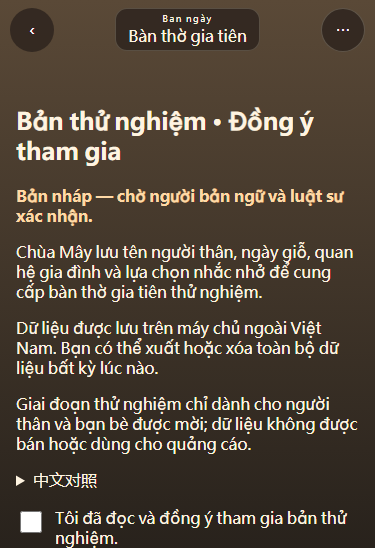
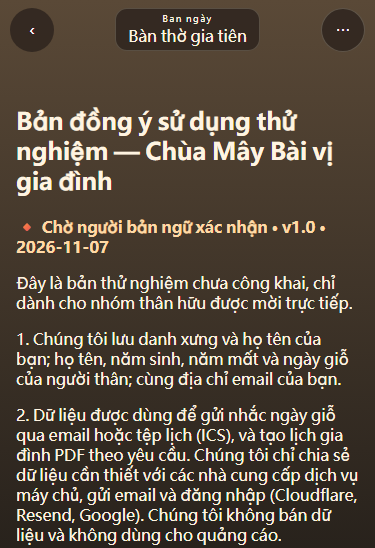
Harden staging pilot copy metrics and accessibility

Changed region(s): [[0.0293, 0.1861, 0.968, 1.0]]

diff --git a/admin-ui/admin.js b/admin-ui/admin.js
@@ -14,6 +14,7 @@ function render(data) {
   bars("#channels", referrals.channels); bars("#activities", referrals.activities);
   $("#tree").innerHTML = referrals.tree.status !== "ok" ? '<p class="insufficient">样本不足，暂不显示传播结构。</p>' : referrals.tree.edges.length ? referrals.tree.edges.map((edge) => `<span class="node">${safe(edge.from)}</span><span class="edge">→</span><span class="node">${safe(edge.to)}</span>`).join("") : '<p class="empty">暂无绑定关系</p>';
   $("#family-cards").innerHTML = card("牌位", family.tablets) + card("平均成员", family.averageMembers) + card("邀请发出", family.invites) + card("邀请接受率", family.inviteAcceptance == null ? null : `${Math.round(family.inviteAcceptance * 100)}%`) + card("提醒后 3 日回访上香", family.reminderReturn == null ? null : `${Math.round(family.reminderReturn * 100)}%`);
+  const fm=family.metrics||{};$("#family-metrics").innerHTML=card("打开牌位",fm.memorial_view||0)+card("完成供奉",fm.offering_complete||0)+card("受邀首次加入",fm.member_invite_accept||0)+card("设置提醒",fm.reminder_set||0)+card("导出 ICS",fm.ics_export||0)+card("预览台历 PDF",fm.calendar_pdf_view||0);
   bars("#deliveries", data.deliveries);
   const op = data.operations; $("#ops").innerHTML = facts({ "当前 release": op.release, "API 状态": op.api, "最近备份": op.backupAt, "restic check": op.backupCheck, "源站证书到期": op.certificateExpires, "磁盘剩余": op.diskFreeBytes == null ? "未提供" : `${(op.diskFreeBytes / 1073741824).toFixed(1)} GiB` });
   $("#errors").innerHTML = op.errors.length ? `<div class="bars">${op.errors.map((error) => `<div class="bar"><b>${safe(error.category)}</b><span></span><small>${error.count} · ${safe(error.at)}</small></div>`).join("")}</div>` : '<p class="empty">没有可显示的错误类别。</p>';
@@ -21,4 +22,4 @@ function render(data) {
 }
 async function load() { $("#loading").hidden = false; $("#error").hidden = true; $("#dashboard").hidden = true; try { const response = await fetch("/api/summary", { credentials: "same-origin", headers: { Accept: "application/json" } }); if (!response.ok) throw Error("load"); const result = await response.json(); render(result.data); $("#dashboard").hidden = false; $("#freshness").textContent = `更新于 ${new Intl.DateTimeFormat("zh-CN", { hour: "2-digit", minute: "2-digit" }).format(new Date())}`; } catch { $("#error").hidden = false; $("#freshness").textContent = "数据不可用"; } finally { $("#loading").hidden = true; } }
 const retry = document.createElement("button"); retry.type = "button"; retry.textContent = "重试"; retry.addEventListener("click", load); $("#retry-slot").append(retry); load();
-$("#load-presale").addEventListener("click", async () => { const button=$("#load-presale"), target=$("#presale-list"); button.disabled=true; target.textContent="读取中…"; try { const response=await fetch("/api/presale",{credentials:"same-origin",headers:{Accept:"application/json"}}); if(!response.ok)throw Error("load"); const {data}=await response.json(); const rows=[...data.preorders.map((item)=>({kind:"台历",contact:item.contact,detail:`${item.family_name} · ${item.edition} · ${item.status}`})),...data.interests.map((item)=>({kind:"意向",contact:item.contact,detail:`${item.ancestor_count} · ${item.willingness} · ${item.region||"未填地区"}`}))]; target.innerHTML=rows.length?`<div class="facts">${rows.map((item)=>`<div class="fact"><span>${safe(item.kind)} · ${safe(item.detail)}</span><strong>${safe(item.contact)}</strong></div>`).join("")}</div>`:'<p class="empty">暂无记录</p>'; } catch { target.textContent="暂时无法读取。"; } finally { button.disabled=false; } });
+$("#presale-form").addEventListener("submit", async (event) => { event.preventDefault(); const button=$("#load-presale"), target=$("#presale-list"); button.disabled=true; target.textContent="读取中…"; try { const response=await fetch("/api/presale",{credentials:"same-origin",headers:{Accept:"application/json"}}); if(!response.ok)throw Error("load"); const {data}=await response.json(); const rows=[...data.preorders.map((item)=>({kind:"台历",contact:item.contact,detail:`${item.family_name} · ${item.edition} · ${item.status}`})),...data.interests.map((item)=>({kind:"意向",contact:item.contact,detail:`${item.ancestor_count} · ${item.willingness} · ${item.region||"未填地区"}`}))]; target.innerHTML=rows.length?`<div class="facts">${rows.map((item)=>`<div class="fact"><span>${safe(item.kind)} · ${safe(item.detail)}</span><strong>${safe(item.contact)}</strong></div>`).join("")}</div>`:'<p class="empty">暂无记录</p>'; } catch { target.textContent="暂时无法读取。"; } finally { button.disabled=false; } });

diff --git a/admin-ui/admin.html b/admin-ui/admin.html
@@ -2,7 +2,7 @@
 <body><a class="skip" href="#content">跳到内容</a><div class="shell"><header><div><p class="eyebrow">CHÙA MÂY · 只读</p><h1>云寺管理台</h1></div><p id="freshness" class="freshness" role="status">正在读取最新数据</p></header><nav aria-label="后台栏目"><a href="#overview">总览</a><a href="#referrals">推荐与传播</a><a href="#family">家族牌位</a><a href="#delivery">提醒与发信</a><a href="#operations">运维</a><a href="#features">功能开关</a></nav><main id="content" tabindex="-1"><div id="loading" class="state" role="status"><span class="spinner" aria-hidden="true"></span>正在整理匿名统计…</div><div id="error" class="state error" role="alert" hidden><strong>暂时无法读取管理数据</strong><p>页面没有显示缓存数字。请检查服务后重试。</p><span id="retry-slot"></span></div><div id="dashboard" hidden>
 <section id="overview"><div class="section-heading"><div><p class="kicker">今天与近 7 天</p><h2>总览</h2></div><a href="https://analytics.google.com/" target="_blank" rel="noreferrer">打开 GA4 ↗</a></div><div id="overview-cards" class="cards"></div><div class="panel"><div class="panel-title"><h3>近 30 天趋势</h3><p>仅统计已同意的访问</p></div><svg id="trend" class="trend" viewBox="0 0 720 220" role="img" aria-label="近 30 天进门、分享与推荐绑定趋势"></svg><div class="legend"><span><i class="enter"></i>进门</span><span><i class="share"></i>分享</span></div></div><div class="panel"><div class="panel-title"><h3>近 30 天每小时同时在线</h3><p>临时编号只在内存；少于 5 人不显示</p></div><svg id="presence" class="trend" viewBox="0 0 720 220" role="img" aria-label="近 30 天每小时同时在线峰值与平均值"></svg><div class="legend"><span><i class="peak"></i>峰值</span><span><i class="average"></i>平均</span></div><p id="presence-empty" class="empty" hidden>暂无达到显示门槛的数据</p></div></section>
 <section id="referrals"><p class="kicker">匿名关系 · 保存 24 个月</p><h2>推荐与传播</h2><div id="referral-cards" class="cards"></div><div class="split"><div class="panel"><h3>渠道分布</h3><div id="channels"></div></div><div class="panel"><h3>活动分布</h3><div id="activities"></div></div></div><div class="panel"><div class="panel-title"><h3>匿名传播树</h3><p>编号仅在本页有效，不对应推荐码</p></div><div id="tree" class="tree"></div></div></section>
-<section id="family"><p class="kicker">只显示汇总</p><h2>家族牌位</h2><div id="family-cards" class="cards"></div><div class="panel"><div class="panel-title"><h3>台历预订与会员意向</h3><button id="load-presale" type="button">读取受保护列表</button></div><p class="empty">此列表含联系方式，仅白名单管理员按需读取；每次读取都会审计。</p><div id="presale-list"></div></div></section>
+<section id="family"><p class="kicker">只显示汇总</p><h2>家族牌位</h2><div id="family-cards" class="cards"></div><div class="panel"><h3>近 30 天匿名使用次数</h3><div id="family-metrics" class="cards"></div></div><div class="panel"><div class="panel-title"><h3>台历预订与会员意向</h3><form id="presale-form" novalidate><button id="load-presale" type="submit">读取受保护列表</button></form></div><p class="empty">此列表含联系方式，仅白名单管理员按需读取；每次读取都会审计。</p><div id="presale-list"></div></div></section>
 <section id="delivery"><p class="kicker">近 7 天</p><h2>提醒与发信</h2><div id="deliveries" class="panel"></div></section>
 <section id="operations"><p class="kicker">staging</p><h2>运维</h2><div id="ops" class="facts panel"></div><div class="panel"><h3>最近 24 小时错误摘要</h3><div id="errors"></div></div></section>
 <section id="features"><p class="kicker">只读配置</p><h2>功能开关</h2><div id="flags" class="flags panel"></div></section>

diff --git a/family-consent.js b/family-consent.js
@@ -1,20 +1,26 @@
-export const FAMILY_CONSENT_VERSION = "pilot-2026-11-07-v1";
+export const FAMILY_CONSENT_VERSION = "pilot-2026-11-07-v2";
 
-// Placeholder copy: Vietnamese must be reviewed by a native speaker and counsel before public use.
+// Kept separate so native-language and legal review do not require application changes.
 export const FAMILY_CONSENT_COPY = Object.freeze({
-  title: "Bản thử nghiệm · Đồng ý tham gia",
-  review: "Bản nháp — chờ người bản ngữ và luật sư xác nhận.",
+  title: "Bản đồng ý sử dụng thử nghiệm — Chùa Mây Bài vị gia đình",
+  review: "🔸 Chờ người bản ngữ xác nhận · v1.0 · 2026-11-07",
   vi: [
-    "Chùa Mây lưu tên người thân, ngày giỗ, quan hệ gia đình và lựa chọn nhắc nhở để cung cấp bàn thờ gia tiên thử nghiệm.",
-    "Dữ liệu được lưu trên máy chủ ngoài Việt Nam. Bạn có thể xuất hoặc xóa toàn bộ dữ liệu bất kỳ lúc nào.",
-    "Giai đoạn thử nghiệm chỉ dành cho người thân và bạn bè được mời; dữ liệu không được bán hoặc dùng cho quảng cáo.",
+    "Đây là bản thử nghiệm chưa công khai, chỉ dành cho nhóm thân hữu được mời trực tiếp.",
+    "1. Chúng tôi lưu danh xưng và họ tên của bạn; họ tên, năm sinh, năm mất và ngày giỗ của người thân; cùng địa chỉ email của bạn.",
+    "2. Dữ liệu được dùng để gửi nhắc ngày giỗ qua email hoặc tệp lịch (ICS), và tạo lịch gia đình PDF theo yêu cầu. Chúng tôi chỉ chia sẻ dữ liệu cần thiết với các nhà cung cấp dịch vụ máy chủ, gửi email và đăng nhập (Cloudflare, Resend, Google). Chúng tôi không bán dữ liệu và không dùng cho quảng cáo.",
+    "3. Dữ liệu được lưu trên máy chủ đặt ngoài lãnh thổ Việt Nam. Theo Luật Bảo vệ Dữ liệu Cá nhân 91/2025/QH15, bạn có quyền biết và đồng ý với việc dữ liệu được chuyển ra ngoài Việt Nam.",
+    "4. Bạn có thể xuất hoặc xóa tài khoản và toàn bộ dữ liệu bất kỳ lúc nào. Liên hệ: leishen8806@gmail.com.",
+    "5. Dữ liệu thử nghiệm sẽ được giữ lại khi sản phẩm ra mắt. Nếu không muốn, bạn có thể yêu cầu xóa trước thời điểm đó.",
   ],
   zh: [
-    "云寺会保存亲人姓名、忌日、家庭关系和提醒设置，用于提供测试版家族供桌。",
-    "数据存储在越南境外服务器；您可随时导出或删除全部资料。",
-    "测试仅限受邀亲友；数据不会出售或用于广告。",
+    "这是尚未公开的测试版本，仅限直接受邀的亲友使用。",
+    "1. 我们保存您的称呼、姓名和邮箱，以及先人的姓名、生卒年和忌日。",
+    "2. 数据仅用于邮件或 ICS 忌日提醒，以及按需生成家族台历 PDF。只与提供服务器、邮件和登录服务的服务商共享必要数据，不出售、不用于广告。",
+    "3. 数据存储在越南境外的服务器上。依据越南个人数据保护法 91/2025/QH15，您有权知悉并同意数据出境。",
+    "4. 您可随时导出或删除账号及全部数据。联系：leishen8806@gmail.com。",
+    "5. 测试资料将在产品正式上线后保留；如不希望保留，可在上线前申请删除。",
   ],
-  agree: "Tôi đã đọc và đồng ý tham gia bản thử nghiệm.",
+  agree: "Tôi đã đọc và đồng ý với các điểm trên.",
   continue: "Đồng ý và tiếp tục",
   cancel: "Quay lại",
 });

diff --git a/app.js b/app.js
@@ -67,7 +67,7 @@ export function periodNow(date=new Date(),periods=state.layout?.periods??{dawn:"
   return 'day';
 }
 export function placement(layout,id,pose){
-  if(pose==='stand')return {x:351,y:1041,w:240,h:360};
+  if(pose==='stand')return {x:193,y:1018,w:240,h:360};
   if(pose.startsWith('bow-')||pose.startsWith('mo-')){
     const s=layout['hall-side'],scale=s.bowCanvasWidth/s.sourceCanvas[0];
     return {x:s.foot[0]-s.anchor[0]*scale,y:s.foot[1]-s.anchor[1]*scale-(pose.startsWith('mo-')?55:0),w:s.sourceCanvas[0]*scale,h:s.sourceCanvas[1]*scale};
@@ -203,7 +203,7 @@ function render(){
   $('#sound-controls').hidden=!audio.enabled;
   $('#eyebrow').textContent=t(state.period);
   const heading=state.view==='entry'?'entryTitle':state.view==='choose'?'choose':state.view==='home'?'home':state.view==='morning'?'morningTitle':state.view;
-  $('#heading').textContent=t(heading)+(state.view==='beads'?' · '+t('beadRound',{n:state.beadRound}):'');$('#subtitle').textContent=t(state.view==='home'?'homeNote':state.view==='entry'||state.view==='choose'?'tagline':state.view==='morning'?'morningNote':`${state.view}Note`);
+  $('#heading').textContent=t(heading)+(state.view==='beads'?' · '+t('beadRound',{n:state.beadRound}):'');$('#subtitle').textContent=t(state.view==='home'?'homeNote':state.view==='entry'?'entryGuide':state.view==='choose'?'tagline':state.view==='morning'?'morningNote':`${state.view}Note`);
   if(festivalPeriod&&state.view==='home')$('#subtitle').textContent=t(festivalShareKey());
   canvas.setAttribute('aria-label',t(sceneName()==='hall-front'?'sceneFront':sceneName()==='hall-side'?'sceneSide':'sceneCourt'));
   $('#notice').textContent='';updateBreathCue();if(state.view!=='choose')$('#entry-overlay').innerHTML='';
@@ -534,7 +534,7 @@ async function init(){
   window.addEventListener('ct-analytics-choice',()=>void referrals.sync());void referrals.sync();
   try{const response=await fetch(assetURL('processed-v1/layout-v1.json'),{credentials:'omit'});if(!response.ok)throw new Error('layout');state.layout=await response.json();const saved=read('ct-visitor',null);state.visitor=state.layout.v1_scope.visitors.includes(saved)?saved:state.layout.v1_scope.visitors[Math.floor(Math.random()*6)];state.period=periodNow();resolveLayout();
   const ring=(count,newYear=false)=>{if(state.view==='sit'&&state.activity?.running){audio.strike('bell',.22);return;}if(newYear)showNewYearBanner();for(let i=0;i<count;i++)setTimeout(()=>audio.strike('bell',.6),i*1500);};
-  newYearBell=createNewYearBell({onBell:count=>ring(count),onNewYear:count=>{launchLanterns();ring(count,true);}});if(!transitionId)await navigate('entry');}
+  newYearBell=createNewYearBell({onBell:count=>ring(count),onNewYear:count=>{launchLanterns();ring(count,true);}});if(!transitionId)await navigate('entry');if(!read('ct-sound-hint-seen',false)){write('ct-sound-hint-seen',true);showSoundHint('soundFirstHint',5000);}}
   catch{finishBoot();$('#loading').hidden=true;$('#notice').textContent=t('loadError');$('#controls').innerHTML=button('retry','reload');$('#controls').onclick=e=>{if(e.target.dataset.action==='reload')location.reload();};$('#app').setAttribute('aria-busy','false');}
 }
 function finishBoot(){const boot=$('#boot');if(!boot)return;performance.mark('ct-interactive');boot.classList.add('ready');setTimeout(()=>boot.remove(),350);}

diff --git a/i18n.js b/i18n.js
@@ -10,10 +10,10 @@ forest:entry('Núi rừng','Mountain forest'),
 dailyWood:entry('Nhịp mõ hôm nay: {count}','Today’s woodblock taps: {count}'),
 woodAuto:entry('Tự động','Auto tap'),woodStop:entry('Dừng','Stop'),wood108:entry('Một trăm lẻ tám tiếng mõ.','One hundred and eight taps.'),
 enableSound:entry('Bật âm thanh','Enable sound'),muteSound:entry('Tắt âm thanh','Mute sound'),audioLoading:entry('Đang tải âm thanh…','Loading sounds…'),
-tapMute:entry('Chạm để tắt âm thanh','Tap to mute'),silentTip:entry('Nếu không nghe thấy, hãy tắt chế độ im lặng trên điện thoại.','If you hear nothing, turn off silent mode on your phone.'),
+tapMute:entry('Chạm để tắt âm thanh','Tap to mute'),soundFirstHint:entry('Nhấn biểu tượng loa để bật hoặc tắt âm thanh.','Tap the speaker to turn sound on or off.'),silentTip:entry('Nếu không nghe thấy, hãy tắt chế độ im lặng trên điện thoại.','If you hear nothing, turn off silent mode on your phone.'),
 more:entry('Thêm','More'),
 brand:entry('Chùa Mây','Cloud Temple'),tagline:entry('Một khoảng lặng cho hôm nay.','A quiet moment for today.'),
-enter:entry('Vào chùa','Enter the temple'),entryTitle:entry('Chậm lại một chút.','Take a slower moment.'),entryNote:entry('Không tài khoản. Không vội vàng.','No account. No hurry.'),
+enter:entry('Vào chùa','Enter the temple'),entryTitle:entry('Chậm lại một chút.','Take a slower moment.'),entryNote:entry('Không tài khoản. Không vội vàng.','No account. No hurry.'),entryGuide:entry('Vào để chọn thắp hương, lễ bái hoặc ngồi yên.','Enter to choose incense, bowing or quiet sitting.'),
 choose:entry('Một người khách, một khoảng lặng.','A visitor. A moment of quiet.'),change:entry('Đổi người','Change visitor'),continue:entry('Bước vào','Step inside'),
 home:entry('Chánh điện','The main hall'),homeNote:entry('Bạn có thể bắt đầu ở bất cứ đâu.','Begin wherever feels right.'),
 incense:entry('Thắp hương','Incense'),bow:entry('Lễ bái','Bow'),sit:entry('Ngồi yên','Sit'),beads:entry('Lần chuỗi','Beads'),leave:entry('Rời chùa','Leave'),back:entry('Về chánh điện','Back to the hall'),

diff --git a/family.js b/family.js
@@ -1,4 +1,3 @@
-import { familyEvent } from "./family-analytics.js";
 import { familyText as t, FAMILY_COPY } from "./family-i18n.js";
 import { FAMILY_CONSENT_COPY, FAMILY_CONSENT_VERSION } from "./family-consent.js";
 const $ = (s) => document.querySelector(s),
@@ -249,7 +248,6 @@ async function showTablet(id) {
           });
           count = result.count;
         }
-        familyEvent("memorial_offer", b.dataset.kind);
         note(
           b.dataset.kind === "incense"
             ? t("today_incense", { count })
@@ -352,7 +350,6 @@ function form(edit = null) {
         note(friendlyError(error, t("network_error")));
         return;
       }
-      if (!edit) familyEvent("memorial_create");
     } else if (!edit)
       demoTablets.push({
         id: crypto.randomUUID(),
@@ -371,11 +368,9 @@ async function invite(id) {
     await navigator.clipboard?.writeText(
       location.origin + "/family.html#invite=demo",
     );
-    familyEvent("invite_create");
     return note(t("test_link_copied"));
   }
   const d = await api(`/tablets/${id}/invites`, { method: "POST", body: "{}" });
-  familyEvent("invite_create");
   if (navigator.share)
     await navigator.share({
       title: t("share_title"),
@@ -409,7 +404,6 @@ async function inviteLanding(raw, authenticated = false) {
           method: "POST",
           body: JSON.stringify({ token: raw }),
         });
-      familyEvent("invite_accept");
       clearInvite();
       await list();
     } catch (error) {
@@ -449,7 +443,6 @@ async function account() {
       ["email-remind", "email"],
       ["tg-remind", "telegram"],
     ])
-      if ($("#" + id).checked) familyEvent("reminder_channel_set", ch);
     note(t("saved"));
   };
   $("#calendar").onclick = async () => {
@@ -458,7 +451,6 @@ async function account() {
       method: "PUT",
       body: JSON.stringify({ calendar: true, festival: true }),
     });
-    familyEvent("reminder_channel_set", "calendar");
     location.href = d.calendarURL;
   };
   $("#download-calendar").onclick = async () => {

diff --git a/index.html b/index.html
@@ -18,9 +18,7 @@
     .js-ready .home-content{display:none}
     #boot{position:fixed;inset:0;z-index:99;display:grid;place-items:center;background:#eee8dc;color:#453a2f;transition:opacity .28s;pointer-events:none}#boot.ready{opacity:0}#boot div{text-align:center}#boot strong{display:block;font:500 25px/1.4 Georgia,serif;letter-spacing:.03em}#boot p{margin:14px 0 0;font:14px/1.5 system-ui,sans-serif}#boot svg{width:84px;height:76px;overflow:visible}#boot path{fill:none;stroke:#766352;stroke-width:2;stroke-linecap:round;animation:boot-smoke 2.4s ease-in-out infinite}@keyframes boot-smoke{0%,100%{opacity:.28;transform:translateY(5px)}50%{opacity:.75;transform:translateY(-5px)}}@media(prefers-reduced-motion:reduce){#boot path{animation:none}#boot{transition:none}}
   </style>
-  <script>
-    (()=>{const d=new Date(),m=d.getHours()*60+d.getMinutes(),p=m>=300&&m<480?'dawn':m>=480&&m<1020?'day':m>=1020&&m<1140?'dusk':'night',r='__CT_RELEASE__',w=innerWidth<=720?Math.min(720,Math.ceil(innerWidth*(devicePixelRatio||1))):941,l=document.createElement('link');l.rel='preload';l.as='image';l.fetchPriority='high';l.crossOrigin='anonymous';l.href=`assets/${r.startsWith('__')?'':`releases/${r}/`}processed-v1/${w<=720?'mobile':'img'}/scene-vn-hall-front-${p}.webp`;document.head.append(l)})();
-  </script>
+  <script src="preload.js"></script>
   <script type="application/ld+json">{"@context":"https://schema.org","@graph":[{"@type":"WebSite","name":"Chùa Mây","alternateName":"Cloud Temple","url":"https://h5.chuamay.org/","inLanguage":["vi","en"]},{"@type":"WebApplication","name":"Chùa Mây","url":"https://h5.chuamay.org/","applicationCategory":"LifestyleApplication","operatingSystem":"Any","isAccessibleForFree":true,"inLanguage":["vi","en"],"offers":{"@type":"Offer","price":"0","priceCurrency":"VND"}},{"@type":"Organization","name":"Chùa Mây","url":"https://h5.chuamay.org/"}]}</script>
   <link rel="stylesheet" href="styles.css">
   <script type="module" src="app.js"></script>

diff --git a/styles.css b/styles.css
@@ -185,6 +185,7 @@ body[data-view=morning] .controls{display:flex;flex-direction:column;align-items
 .morning-stack{align-items:center;gap:16px;text-align:center}
 .morning-bell-hint{font-size:18px;min-height:1.5em;color:var(--ink);opacity:.7;text-align:center}
 .morning-stack .row{justify-content:center;gap:12px;flex-wrap:wrap}
+.action-nav{gap:8px}.controls .action-nav button{font-size:14px}.scene-heading h1{font-size:18px}.controls .row:has([data-action=home])>button{border:1px solid var(--line);font-size:16px}.choice-row,.breath-controls{gap:8px}@media(max-height:740px){.scene-heading h1{font-size:18px}}
 .morning-stack .primary{min-width:160px}
 .morning-skip-step{font-size:15px;min-height:44px;padding:8px 16px;color:var(--ink);opacity:.6;background:transparent;border:none;cursor:pointer;width:100%;text-align:center}
 @media(prefers-reduced-motion:reduce){.morning-bell-hint{transition:none}}

diff --git a/preload.js b/preload.js
@@ -1,0 +1,1 @@
+(()=>{const d=new Date(),m=d.getHours()*60+d.getMinutes(),p=m>=300&&m<480?'dawn':m>=480&&m<1020?'day':m>=1020&&m<1140?'dusk':'night',r='__CT_RELEASE__',w=innerWidth<=720?Math.min(720,Math.ceil(innerWidth*(devicePixelRatio||1))):941,l=document.createElement('link');l.rel='preload';l.as='image';l.fetchPriority='high';l.crossOrigin='anonymous';l.href=`assets/${r.startsWith('__')?'':`releases/${r}/`}processed-v1/${w<=720?'mobile':'img'}/scene-vn-hall-front-${p}.webp`;document.head.append(l)})();

diff --git a/tests/next-round-staging.py b/tests/next-round-staging.py
@@ -1,0 +1,38 @@
+from pathlib import Path
+from playwright.sync_api import sync_playwright
+import subprocess, time
+
+ROOT=Path(__file__).resolve().parents[1]
+OUT=ROOT/'screenshots'/'next-round-staging'
+OUT.mkdir(parents=True,exist_ok=True)
+PORT=8898
+server=subprocess.Popen(['python','-m','http.server',str(PORT),'-d',str(ROOT/'dist')],stdout=subprocess.DEVNULL,stderr=subprocess.DEVNULL)
+sizes=[(375,548),(393,659),(393,852)]
+try:
+  time.sleep(.4)
+  with sync_playwright() as p:
+    browser=p.chromium.launch()
+    for width,height in sizes:
+      page=browser.new_page(viewport={'width':width,'height':height},device_scale_factor=1)
+      page.goto(f'http://localhost:{PORT}/')
+      page.evaluate("localStorage.clear();localStorage.setItem('ct-analytics',JSON.stringify('no'));localStorage.setItem('ct-morning-seen',JSON.stringify(true))")
+      page.reload(); page.locator('[data-action=enter]').wait_for()
+      page.locator('#sound-hint').wait_for(state='visible'); assert 'âm thanh' in page.locator('#sound-hint').inner_text();page.locator('#boot').wait_for(state='detached')
+      page.screenshot(path=OUT/f'{width}x{height}-entry.png')
+      page.locator('[data-action=enter]').click();page.locator('[data-action=continue]').click();page.locator('[data-action=incense]').wait_for();page.locator('#ga-choice').evaluate("el=>el.hidden=true")
+      page.screenshot(path=OUT/f'{width}x{height}-home.png')
+      home=page.evaluate("""()=>({scroll:[document.scrollingElement.scrollWidth,document.scrollingElement.scrollHeight,innerWidth,innerHeight],nav:[...document.querySelectorAll('.action-nav button')].map(e=>({font:parseFloat(getComputedStyle(e).fontSize),r:e.getBoundingClientRect()})),gap:parseFloat(getComputedStyle(document.querySelector('.action-nav')).gap),heading:parseFloat(getComputedStyle(document.querySelector('.scene-heading h1')).fontSize)})""")
+      assert home['scroll']==[width,height,width,height],home
+      assert home['gap']>=8 and home['heading']>=18 and all(x['font']>=14 and x['r']['height']>=44 for x in home['nav']),home
+      page.locator('[data-action=incense]').click();page.locator('[data-action=light]').wait_for();page.screenshot(path=OUT/f'{width}x{height}-incense.png')
+      back=page.locator('[data-action=home]'); style=back.evaluate("e=>({font:parseFloat(getComputedStyle(e).fontSize),border:getComputedStyle(e).borderStyle,height:e.getBoundingClientRect().height})")
+      assert style['font']>=16 and style['border']!='none' and style['height']>=44,style
+      page.close()
+      page=browser.new_page(viewport={'width':width,'height':height},device_scale_factor=1)
+      page.goto(f'http://localhost:{PORT}/');page.evaluate("localStorage.clear();localStorage.setItem('ct-analytics',JSON.stringify('no'))");page.reload();page.locator('[data-action=enter]').click();page.locator('[data-action=continue]').click();page.locator('[data-action=morning-start]').wait_for();page.locator('#ga-choice').evaluate("el=>el.hidden=true");page.wait_for_timeout(700)
+      page.screenshot(path=OUT/f'{width}x{height}-morning-bell.png')
+      page.close()
+    browser.close()
+  print({'passed':True,'screenshots':len(list(OUT.glob('*.png'))),'sizes':sizes})
+finally:
+  server.terminate();server.wait(timeout=5)

diff --git a/tests/pilot-presale-ui.py b/tests/pilot-presale-ui.py
@@ -23,9 +23,9 @@ with sync_playwright() as playwright:
             elif path.endswith("/tablets"):
                 body = {"ok": True, "tablets": []}
             elif path.endswith("/consent") and route.request.method == "GET":
-                body = {"ok": True, "accepted": False, "version": "pilot-2026-11-07-v1"}
+                body = {"ok": True, "accepted": False, "version": "pilot-2026-11-07-v2"}
             elif path.endswith("/consent"):
-                body = {"ok": True, "consent": {"version": "pilot-2026-11-07-v1"}}
+                body = {"ok": True, "consent": {"version": "pilot-2026-11-07-v2"}}
             elif path.endswith("/presale/config"):
                 body = {"ok": True, "open": False}
             else:
@@ -37,7 +37,8 @@ with sync_playwright() as playwright:
         page.goto(BASE + "/family.html")
         page.locator("#new").click()
         page.locator(".consent").wait_for()
-        assert "chờ người bản ngữ" in page.locator(".review").inner_text()
+        assert "chờ người bản ngữ" in page.locator(".review").inner_text().lower()
+        assert "leishen8806@gmail.com" in page.locator(".consent").inner_text()
         assert page.locator("#consent-continue").is_disabled()
         page.screenshot(path=str(OUT / f"{width}x{height}-consent.png"), full_page=True)
         page.locator("#consent-agree").check()
